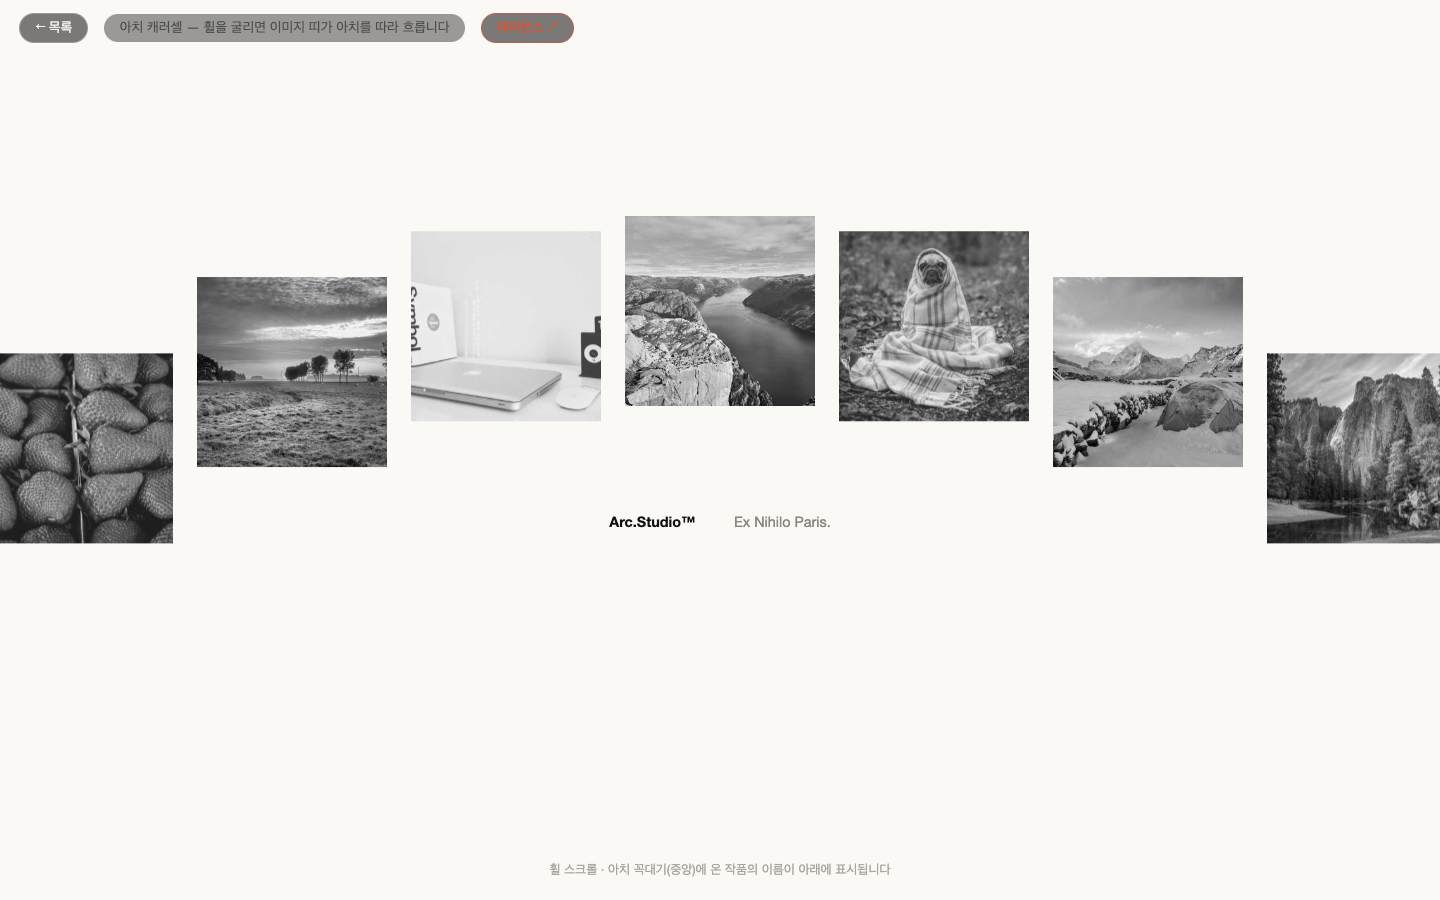
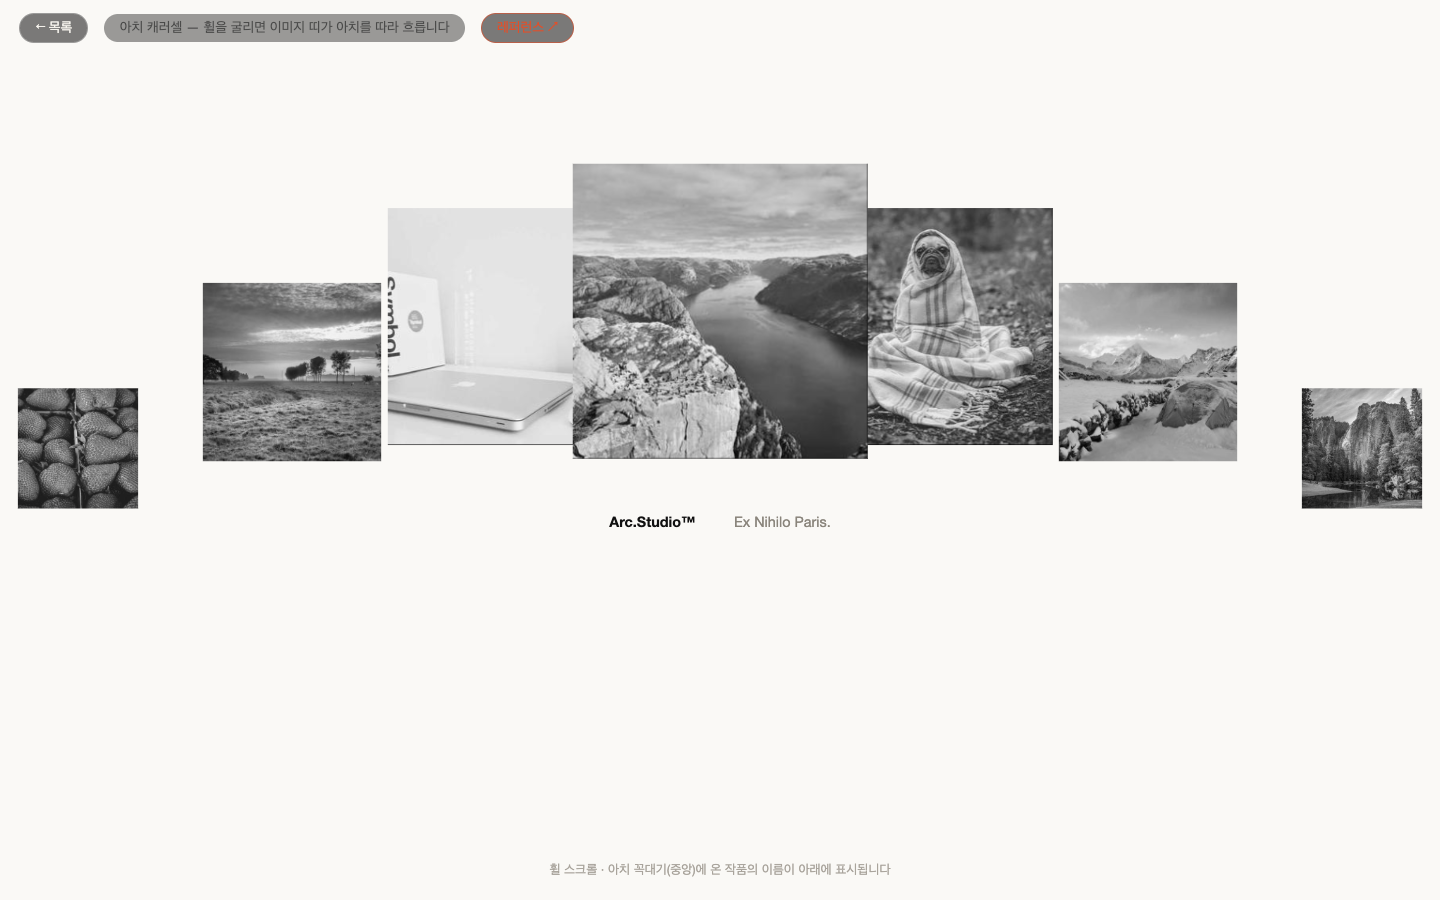
7·8호 보정 — 아치 캐러셀에 커버플로우 스케일(중앙 1.55→가장자리 0.55), 폴드 갤러리에 둥근 3D 밴드 곡률(rotateY+translateZ)

Changed region(s): [[0.0, 0.1556, 1.0, 0.6222]]

diff --git a/interaction-patterns/fold-gallery.html b/interaction-patterns/fold-gallery.html
@@ -55,8 +55,10 @@ addEventListener('wheel', e => { vel += e.deltaY * .5; }, { passive: true });
     let x = (i * GAP - off + TOTAL * 1.5) % TOTAL - TOTAL / 2;
     const t = Math.min(1, Math.abs(x) / (GAP * 1.4));   // 중앙거리 0~1
     const foldDeg = 12 + t * 58;                        // 중앙 12° → 가장자리 70°
-    // 접힐수록 실제 폭이 줄어드는 만큼 x 간격도 자연스럽게 압축됨
-    f.el.style.transform = `translateX(${x}px)`;
+    // 행 전체의 3D 곡률: 옆 카드는 안쪽으로 꺾이고(rotateY) 뒤로 물러남(translateZ)
+    const bendDeg = -x * 0.045;                         // 원통 밴드처럼 휘어짐
+    const z = -(x * x) / 2200;
+    f.el.style.transform = `translateX(${x}px) translateZ(${z}px) rotateY(${bendDeg}deg)`;
     f.el.style.zIndex = Math.round(100 - t * 90);
     f.el.style.opacity = t > .98 ? 0 : 1;               // 화면 밖 여분 숨김
     f.L.style.transform = `rotateY(${ foldDeg}deg)`;    // 왼면은 안으로

diff --git a/interaction-patterns/arc-carousel.html b/interaction-patterns/arc-carousel.html
@@ -52,7 +52,10 @@ const label = document.getElementById('label');
     // 중앙 기준 순환 좌표(-TOTAL/2 ~ TOTAL/2)
     let x = (i * GAP - off + TOTAL * 1.5) % TOTAL - TOTAL / 2;
     const y = (x * x) / (2 * R);            // 포물선 아치(중앙이 꼭대기)
-    el.style.transform = `translate(${x}px, ${y}px)`;
+    // 커버플로우 스케일: 중앙 1.55배 → 가장자리 0.55배
+    const t = Math.min(1, Math.abs(x) / 700);
+    const s = 1.55 - t * 1.0;
+    el.style.transform = `translate(${x}px, ${y}px) scale(${s})`;
     el.style.zIndex = Math.round(1000 - y); // 위(중앙)일수록 앞
     const d = Math.abs(x);
     if (d < bestD){ bestD = d; best = i; }
